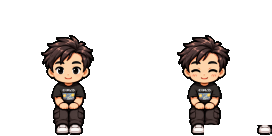
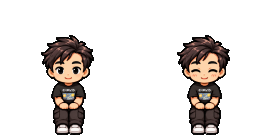
Casal sentado no banco (arte própria), rack da TV sólido, cenas da família e Weng sem travar
- 6 bancos (rua e parque) com o casal desenhado no banco certo, piscando e com expressões
- Quadros sentados alinhados (pernas não 'pulam' ao sorrir)
- Rack da TV medido no desenho e sólido; só a tela escura fica na frente
- Mãe e Alexandre: personagens lado a lado sem tapar rostos
- Weng seguindo não prende em móveis (sem teletransporte)

Claude-Session: https://claude.ai/code/session_01PDyLU6Huw5amytFREh1vA2

diff --git a/src/systems/ScriptRunner.ts b/src/systems/ScriptRunner.ts
@@ -238,7 +238,7 @@ export function createScriptContext(scene: GameScene): ScriptContext {
       scene.setUmbrella(who === 'player' ? 'bella' : who, mode);
     },
 
-    async sit(seatX, seatY, lines) {
+    async sit(seatX, seatY, lines, couple) {
       const sx = seatX / 3;
       const sy = seatY / 3;
       const weng = scene.npcs.get('weng')?.npc;
@@ -247,11 +247,39 @@ export function createScriptContext(scene: GameScene): ScriptContext {
       const pl = scene.player;
       pl.scripted = true;
       (pl.body as Phaser.Physics.Arcade.Body).setVelocity(0, 0);
-      pl.sit(withWeng ? sx - 11 : sx, sy, 'down');
-      if (withWeng) {
+      // Com o Weng junto e arte do casal no banco: um sprite só, cobrindo o banco pintado.
+      let pair: Phaser.GameObjects.Sprite | null = null;
+      let pairTimer: Phaser.Time.TimerEvent | null = null;
+      if (withWeng && couple && scene.textures.exists(couple.key)) {
+        pl.setVisible(false);
         weng!.stopFollowing();
         weng!.behavior = 'scripted';
-        weng!.sit(sx + 11, sy, 'down');
+        weng!.setVisible(false);
+        pair = scene.add.sprite(couple.x / 3, couple.y / 3, couple.key, 0).setOrigin(0.5, 1).setScale(1 / RENDER_SCALE);
+        pair.setDepth(couple.y / 3 + 60);
+        let tick = 0;
+        pairTimer = scene.time.addEvent({
+          delay: 400,
+          loop: true,
+          callback: () => {
+            tick++;
+            if (tick % 22 === 0) pair!.setFrame(2);
+            else if (tick % 22 === 3) pair!.setFrame(0);
+            else if (tick % 7 === 0) {
+              pair!.setFrame(1);
+              scene.time.delayedCall(170, () => pair?.active && pair.frame.name === '1' && pair.setFrame(0));
+            }
+          },
+        });
+        pl.setPosition(couple.x / 3 - 10, couple.y / 3 + 4);
+        weng!.setPosition(couple.x / 3 + 10, couple.y / 3 + 4);
+      } else {
+        pl.sit(withWeng ? sx - 11 : sx, sy, 'down');
+        if (withWeng) {
+          weng!.stopFollowing();
+          weng!.behavior = 'scripted';
+          weng!.sit(sx + 11, sy, 'down');
+        }
       }
       await UI.fade(0, 260);
       AudioSystem.play('confirm');
@@ -273,15 +301,21 @@ export function createScriptContext(scene: GameScene): ScriptContext {
         InputSystem.on('script:interact', done);
         scene.events.on('update', check);
       });
+      if (pair) {
+        pairTimer?.remove();
+        pair.destroy();
+        pl.setVisible(true);
+        weng!.setVisible(true);
+      }
       pl.standUp();
-      const back = 12;
-      pl.setPosition(pl.x, sy + back);
+      const back = pair ? 0 : 12;
+      if (!pair) pl.setPosition(pl.x, sy + back);
       (pl.body as Phaser.Physics.Arcade.Body).reset(pl.x, pl.y);
       pl.face('down');
       pl.scripted = false;
       if (withWeng) {
         weng!.standUp();
-        weng!.setPosition(weng!.x, sy + back);
+        weng!.setPosition(weng!.x, (pair ? pl.y : sy + back));
         (weng!.body as Phaser.Physics.Arcade.Body).reset(weng!.x, weng!.y);
         pl.trail.length = 0;
         weng!.follow(pl);

diff --git a/src/regions/piabeta/parque.map.ts b/src/regions/piabeta/parque.map.ts
@@ -117,16 +117,16 @@ const scripts: Record<string, Script> = {
     await ctx.say('bella', 'Um laguinho com vitórias-régias e uma pontezinha. Esse parque pensou em tudo.');
   },
   async banco(ctx) {
-    await ctx.sit(325, 628, [['weng', 'Um banco na luz do poste. Clássico.'], ['bella', 'Clássico e perfeito.']]);
+    await ctx.sit(325, 628, [['weng', 'Um banco na luz do poste. Clássico.'], ['bella', 'Clássico e perfeito.']], { key: 'bench-pq-front-lamp', x: 325, y: 668 });
   },
   async banco2(ctx) {
-    await ctx.sit(1052, 424, [['bella', 'Olha o laguinho daqui. Dá pra ouvir os sapos.'], ['weng', 'Eles tão cantando pra gente.']]);
+    await ctx.sit(1052, 424, [['bella', 'Olha o laguinho daqui. Dá pra ouvir os sapos.'], ['weng', 'Eles tão cantando pra gente.']], { key: 'bench-pq-ang-l', x: 1052, y: 466 });
   },
   async banco3(ctx) {
-    await ctx.sit(1367, 655, [['weng', 'Se eu pudesse, parava o tempo agora.'], ['bella', '...Eu também.']]);
+    await ctx.sit(1367, 655, [['weng', 'Se eu pudesse, parava o tempo agora.'], ['bella', '...Eu também.']], { key: 'bench-pq-front-bin', x: 1350, y: 694 });
   },
   async banco4(ctx) {
-    await ctx.sit(275, 262, [['bella', 'O barulhinho do chafariz é tão calmo.'], ['weng', 'Você também me deixa calmo. Mesmo nervoso.']]);
+    await ctx.sit(275, 262, [['bella', 'O barulhinho do chafariz é tão calmo.'], ['weng', 'Você também me deixa calmo. Mesmo nervoso.']], { key: 'bench-pq-ang-r', x: 275, y: 300 });
   },
   async weng(ctx) {
     if (objActive('passear')) await ctx.say('weng', 'Vamos seguindo o caminho, pro meio do parque.');

diff --git a/src/regions/piabeta/casaBella.scripts.ts b/src/regions/piabeta/casaBella.scripts.ts
@@ -187,9 +187,9 @@ export const casaScripts: Record<string, Script> = {
     if (!ctx.objectiveDone(Q, 'mae')) {
       // posiciona os três lado a lado (sem empilhar)
       await ctx.fadeOut(200);
-      ctx.place('player', 11.0, 16.2, 'right');
-      ctx.place('mae-bella', 12.8, 15.7, 'down');
-      ctx.place('weng', 14.7, 16.2, 'left');
+      ctx.place('player', 10.2, 16.0, 'right');
+      ctx.place('mae-bella', 12.8, 16.0, 'down');
+      ctx.place('weng', 15.4, 16.0, 'left');
       await ctx.fadeIn(250);
       await ctx.say('bella', 'Mãe, esse é o Weng.');
       await ctx.say('mae-bella', 'Ah, então você que é o Weng! Prazer, querido. A Bella fala de você.');
@@ -226,9 +226,9 @@ export const casaScripts: Record<string, Script> = {
     }
     if (!ctx.objectiveDone(Q, 'pai')) {
       await ctx.fadeOut(200);
-      ctx.place('player', 18.7, 8.2, 'right');
-      ctx.place('weng', 18.7, 9.9, 'right');
-      ctx.place('pai-bella', 20.4, 8.4, 'left');
+      ctx.place('player', 18.8, 8.3, 'right');
+      ctx.place('pai-bella', 21.0, 8.3, 'left');
+      ctx.place('weng', 19.9, 10.1, 'up');
       await ctx.fadeIn(250);
       await ctx.say('bella', `${CHAMADO ? `${CHAMADO}, esse` : 'Esse'} é o Weng.`);
       ctx.face('weng', 'up');

diff --git a/src/regions/piabeta/rua.map.ts b/src/regions/piabeta/rua.map.ts
@@ -228,10 +228,10 @@ const scripts: Record<string, Script> = {
     await ctx.say('bella', 'O carro do vizinho. Sempre estacionado exatamente aqui.');
   },
   async banco(ctx) {
-    await ctx.sit(555, 712, ctx.flag('weng-segue') ? [['weng', 'Um banquinho na pracinha, debaixo de chuva... a gente é meio doido, né?'], ['bella', 'Um pouquinho. Mas tá bom aqui.']] : [['bella', 'Um banquinho na sombra. Bom pra ficar pensando no que falar pra ele.']]);
+    await ctx.sit(555, 712, ctx.flag('weng-segue') ? [['weng', 'Um banquinho na pracinha, debaixo de chuva... a gente é meio doido, né?'], ['bella', 'Um pouquinho. Mas tá bom aqui.']] : [['bella', 'Um banquinho na sombra. Bom pra ficar pensando no que falar pra ele.']], { key: 'bench-rua', x: 555, y: 780 });
   },
   async banco2(ctx) {
-    await ctx.sit(1063, 712, ctx.flag('weng-segue') ? [['bella', 'Senta aqui um pouquinho comigo.'], ['weng', 'Com você eu sento até na chuva.']] : [['bella', 'Daqui dá pra ver a rua inteira.']]);
+    await ctx.sit(1063, 712, ctx.flag('weng-segue') ? [['bella', 'Senta aqui um pouquinho comigo.'], ['weng', 'Com você eu sento até na chuva.']] : [['bella', 'Daqui dá pra ver a rua inteira.']], { key: 'bench-rua', x: 1063, y: 780 });
   },
 };
 

diff --git a/src/regions/piabeta/casaBella.map.ts b/src/regions/piabeta/casaBella.map.ts
@@ -63,7 +63,7 @@ export const casaBellaMap: MapDef = {
     R(1408, 300, 1496, 388), // planta
     // Sala
     R(60, 700, 138, 735), // planta (vaso)
-    R(222, 800, 312, 850), // TV (só a base do rack; dá pra passar atrás e embaixo)
+    R(218, 700, 318, 882), // rack da TV inteiro (medido no desenho)
     R(408, 690, 548, 724), // mesinha + abajur
     R(550, 690, 910, 745), // sofá
     R(1062, 690, 1290, 756), // estante
@@ -80,8 +80,7 @@ export const casaBellaMap: MapDef = {
 
   // Profundidade: TV e planta da sala na frente de quem passa atrás
   overlays: [
-    { x0: 243, y0: 642, x1: 294, y1: 805, base: 888 }, // tela da TV
-    { x0: 214, y0: 698, x1: 322, y1: 892, base: 888, cut: 'furniture' }, // rack
+    { x0: 246, y0: 645, x1: 294, y1: 800, base: 882, cut: 'dark' }, // só a tela escura da TV
     { x0: 1360, y0: 660, x1: 1492, y1: 815, base: 808, cut: 'foliage' }, // planta
   ],
 

diff --git a/src/config/assetManifest.ts b/src/config/assetManifest.ts
@@ -59,6 +59,11 @@ export const ASSETS: AssetEntry[] = [
     (n, i): AssetEntry => ({ id: `OBJ-${String(i + 1).padStart(3, '0')}`, key: `burger-${n}`, file: `assets/objects/burger-${n}.png`, kind: 'image' }),
   ),
 
+  // Casal sentado no banco (4 quadros 200x150: normal, piscando, expressão, normal)
+  ...['bench-pq-ang-r', 'bench-pq-front-lamp', 'bench-pq-ang-l', 'bench-pq-front-bin', 'bench-rua', 'bench-rua-bin'].map(
+    (n, i): AssetEntry => ({ id: `OBJ-04${i}`, key: n, file: `assets/objects/${n}.png`, kind: 'spritesheet', frameWidth: 200, frameHeight: 150 }),
+  ),
+
   // Veículos (HD: quadros 192x128 — esquerda, direita, frente, costas)
   { id: 'OBJ-020', key: 'uber-car', file: 'assets/objects/uber-car.png', kind: 'spritesheet', frameWidth: 192, frameHeight: 128 },
 

diff --git a/src/scenes/GameScene.ts b/src/scenes/GameScene.ts
@@ -459,7 +459,8 @@ export class GameScene extends Phaser.Scene {
   private addNpcColliders(npc: NPC): void {
     this.physics.add.collider(this.player, npc, undefined, () => !npc.passThroughPlayer);
     // paredes só valem quando o NPC anda sozinho (cenas de script atravessam tudo)
-    const walls = () => npc.behavior !== 'scripted';
+    // só quem passeia sozinho colide com móveis; o Weng seguindo a Bella usa o caminho dela
+    const walls = () => npc.behavior === 'wander' || npc.behavior === 'idle';
     this.physics.add.collider(npc, this.built.collision, undefined, walls);
     this.physics.add.collider(npc, this.built.solids, undefined, walls);
   }

diff --git a/src/core/script.ts b/src/core/script.ts
@@ -79,7 +79,7 @@ export interface ScriptContext {
    * Coordenadas em px do cenário ORIGINAL: centro do assento e altura do assento.
    * Resolve quando a jogadora levanta (anda ou aperta interagir).
    */
-  sit(seatX: number, seatY: number, lines?: [string, string][]): Promise<void>;
+  sit(seatX: number, seatY: number, lines?: [string, string][], couple?: { key: string; x: number; y: number }): Promise<void>;
   /** Animação do beijo entre a Bella e o Weng (eles precisam estar frente a frente). */
   kiss(): Promise<void>;
   /** Existe arte carregada com essa chave? */

diff --git a/src/world/MapBuilder.ts b/src/world/MapBuilder.ts
@@ -136,6 +136,7 @@ export function buildMap(scene: Phaser.Scene, def: MapDef): BuiltMap {
           if (keep && o.cut === 'foliage') keep = isFoliage(d[p], d[p + 1], d[p + 2]);
           if (keep && o.cut === 'furniture') keep = isFurniture(d[p], d[p + 1], d[p + 2]);
           if (keep && o.cut === 'lamp') keep = isLamp(d[p], d[p + 1], d[p + 2]);
+          if (keep && o.cut === 'dark') keep = Math.max(d[p], d[p + 1], d[p + 2]) < 95;
           if (!keep) d[p + 3] = 0;
         }
         ctx.putImageData(data, 0, 0);

diff --git a/src/world/MapTypes.ts b/src/world/MapTypes.ts
@@ -108,7 +108,7 @@ export interface MapDef {
     ellipse?: boolean;
     fade?: boolean;
     /** 'foliage': mantém só folhas, flores e contornos (tira chão, asfalto, pedra). */
-    cut?: 'foliage' | 'furniture' | 'lamp';
+    cut?: 'foliage' | 'furniture' | 'lamp' | 'dark';
   }[];
   /** Interações invisíveis sobre o cenário. */
   hotspots?: HotspotDef[];
